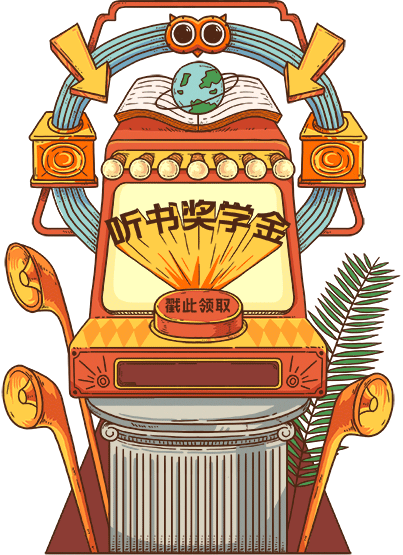
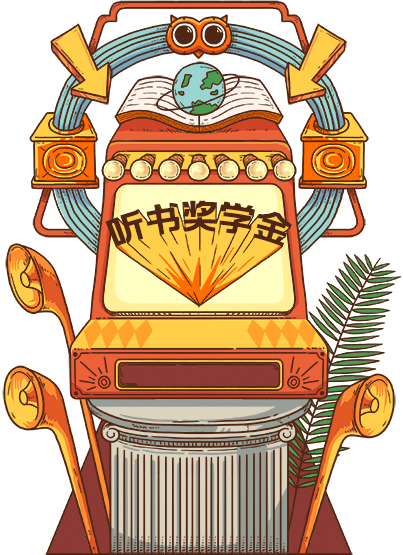
tp

diff --git a/H5sInLuoJiSiWei/privateExamnation/2019.6.11ListenBook/js/index0723.js b/H5sInLuoJiSiWei/privateExamnation/2019.6.11ListenBook/js/index0723.js
@@ -51,6 +51,8 @@ var imgData={
 	"https://emperorfront.github.io/h5/H5sInLuoJiSiWei/privateExamnation/2019.6.11ListenBook/pano0723/machine.png",
 	"https://emperorfront.github.io/h5/H5sInLuoJiSiWei/privateExamnation/2019.6.11ListenBook/pano0723/machine2.png",
 	"https://emperorfront.github.io/h5/H5sInLuoJiSiWei/privateExamnation/2019.6.11ListenBook/pano0723/machine3.png",
+	"https://emperorfront.github.io/h5/H5sInLuoJiSiWei/privateExamnation/2019.6.11ListenBook/pano0723/machinebutton1.png",
+	"https://emperorfront.github.io/h5/H5sInLuoJiSiWei/privateExamnation/2019.6.11ListenBook/pano0723/machinebutton2.png",
 	],
 	panosClick:[
 	"https://emperorfront.github.io/h5/H5sInLuoJiSiWei/privateExamnation/2019.6.11ListenBook/pano0723/jiahangjia.png",
@@ -822,6 +824,25 @@ function initFloatingPiece() {
   icon.style.background = "url(" + imgData["big"][2] + ")";
   machineIcon.appendChild(icon);
   pano.appendChild(machineIcon);
+  //按钮
+  var machineIcon = document.createElement('div');
+  var icon = document.createElement('div');
+  icon.className = "machinebutton1";
+  icon.classList.add("mcclick");
+  var str = "opacity: 0;height: 129px;width: 237px;left: -12px;background: url(&quot;pano3/machine3.png&quot;);transform: translateY(0px) rotateY(163deg) translateZ(-338px);float: left;position: absolute;top: 75px;";
+  icon.style.cssText = str;
+  icon.style.background = "url(" + imgData["big"][3] + ")";
+  machineIcon.appendChild(icon);
+  pano.appendChild(machineIcon);
+  var machineIcon = document.createElement('div');
+  var icon = document.createElement('div');
+  icon.className = "machinebutton2";
+  icon.classList.add("mcclick");
+  var str = "opacity: 0;height: 129px;width: 237px;left: -12px;background: url(&quot;pano3/machine3.png&quot;);transform: translateY(0px) rotateY(163deg) translateZ(-338px);float: left;position: absolute;top: 75px;";
+  icon.style.cssText = str;
+  icon.style.background = "url(" + imgData["big"][4] + ")";
+  machineIcon.appendChild(icon);
+  pano.appendChild(machineIcon);
   //绑定点击机器事件
   getMoney();
 }
@@ -865,10 +886,10 @@ function iconAnimit(){
       MTween({
         el: $(".machine3")[0],//奖学金领取处字样
         target: {
-          opacity: 30,//透明变不透明
+          opacity: 70,//透明变不透明
           top: 75,//上升
         },
-        time: 100,
+        time: 1000,
         type: 'linear',
         callBack: function() {
           iconAnimit();
@@ -1431,6 +1452,30 @@ function getMoney() {
     });
 	}
 }
+//写死宝箱跳转链接
+$(function(){
+  if (ua.indexOf('igetapp')) {
+    $("#windowImg").click(function(e){
+      if($("#windowImg")[0].src.indexOf('hongbaohe')){
+        //点击则跳转至cms奖金领取页。
+        var link = encodeURIComponent('https://pic1cdn.luojilab.com/html/poster/picqqL8W9PRlXcgGo6AXrGW.html');
+        var url = 'igetapp://activity/detail?url='+link;
+        Asio.send('jump.ddURL', {
+          ddURL: url,
+          ddURLMinVer: '5.1.0'
+        })
+      };
+    });
+  } else {
+    $("#windowImg").click(function(e){
+      if($("#windowImg")[0].src.indexOf('hongbaohe')){
+        //点击则跳转至cms奖金领取页。
+        var link = 'https://pic1cdn.luojilab.com/html/poster/picqqL8W9PRlXcgGo6AXrGW.html';
+        window.location.href = link;
+      };
+    });
+  }
+});
 function buttonAnimit() {
   var goimg = $('#goImg')[0];
     MTween({
@@ -1458,15 +1503,7 @@ function buttonAnimit() {
     })
 }
 
-//写死宝箱跳转链接
-$(function(){
-  $("#windowImg").click(function(e){
-    if($("#windowImg")[0].src.indexOf('hongbaohe')){
-      // alert('缺一个微信领取链接！填入手机号');
-      //https://pic1cdn.luojilab.com/html/poster/picqqL8W9PRlXcgGo6AXrGW.html
-    }
-  });
-});
+
 
 
 
